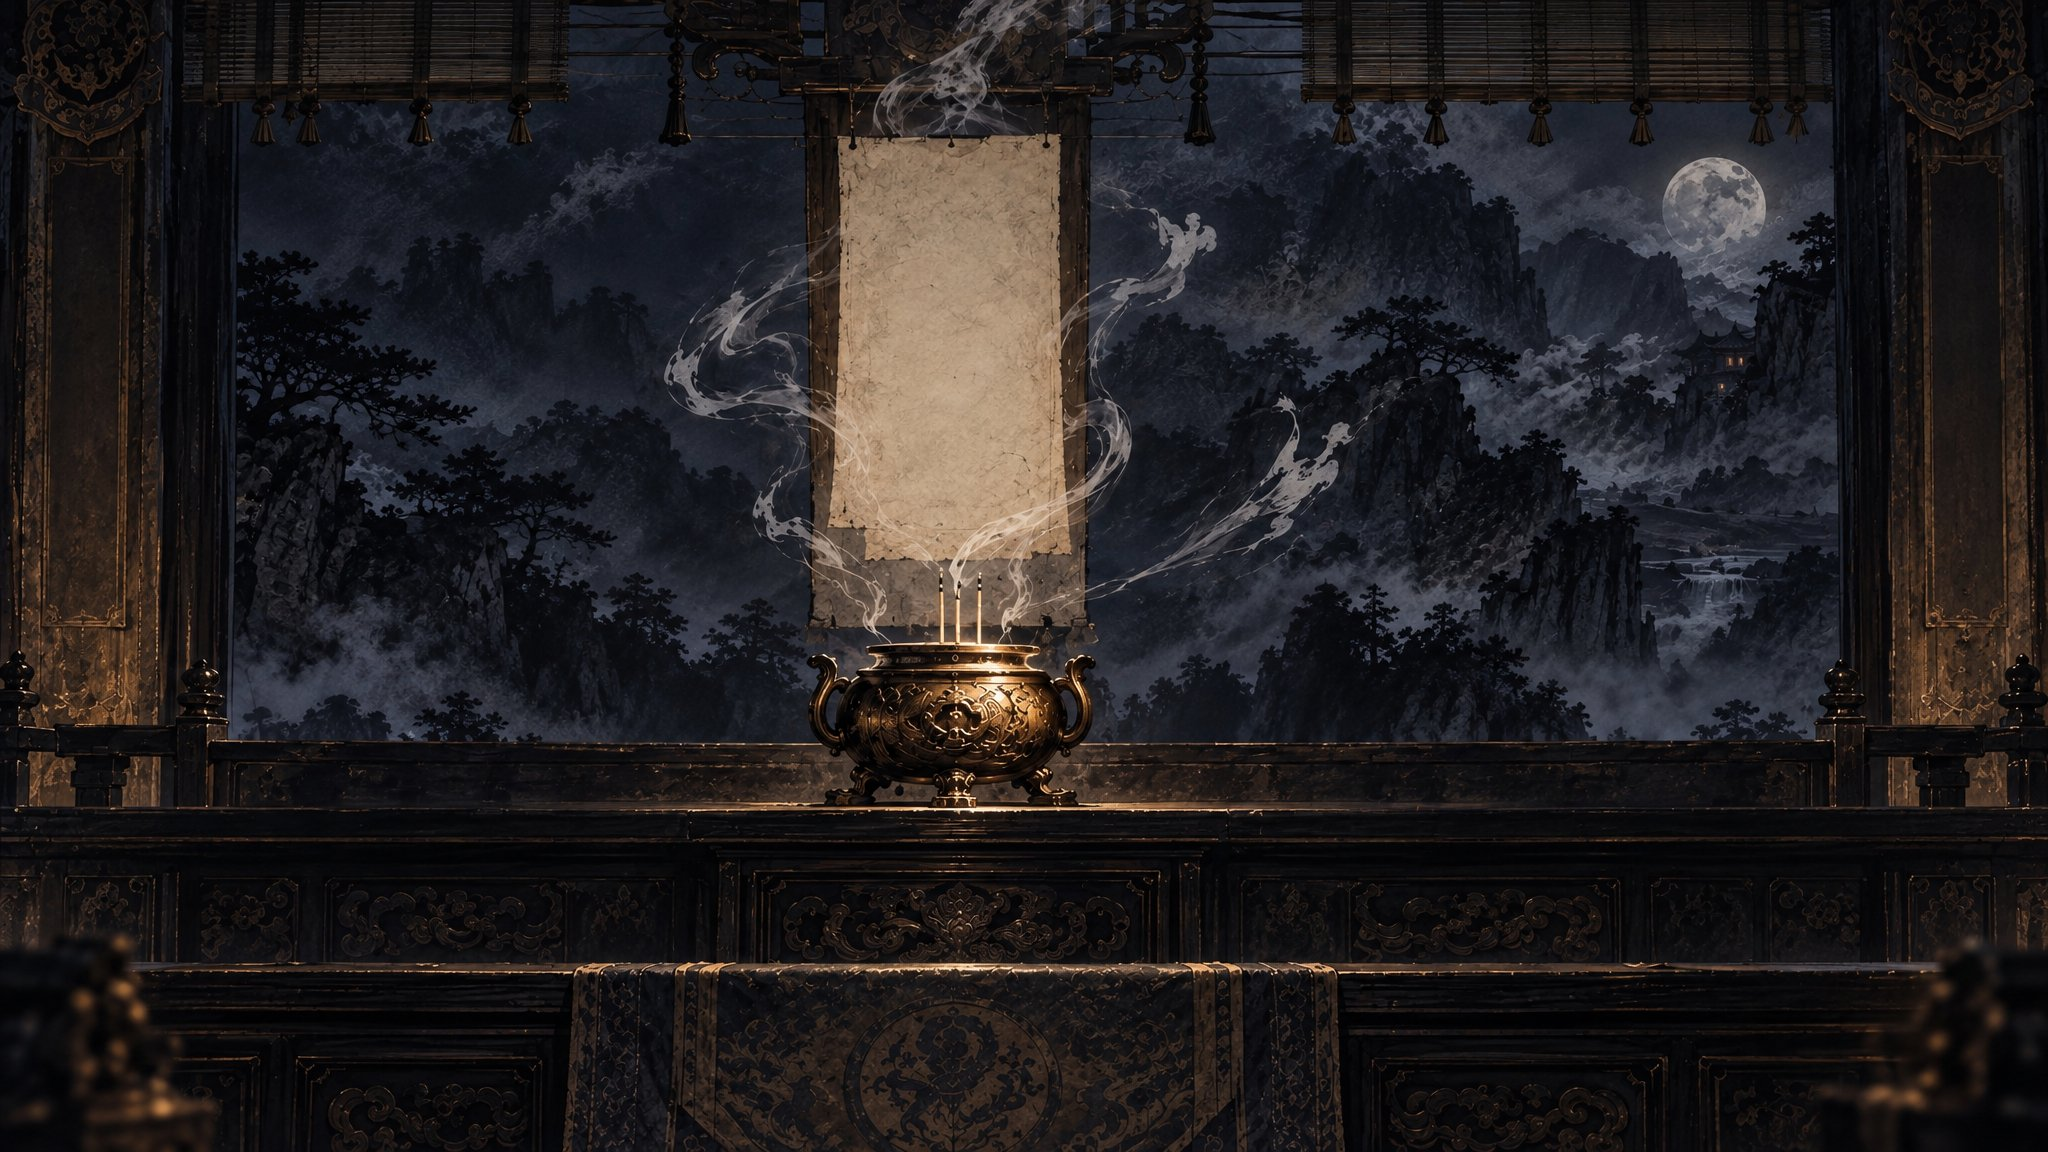
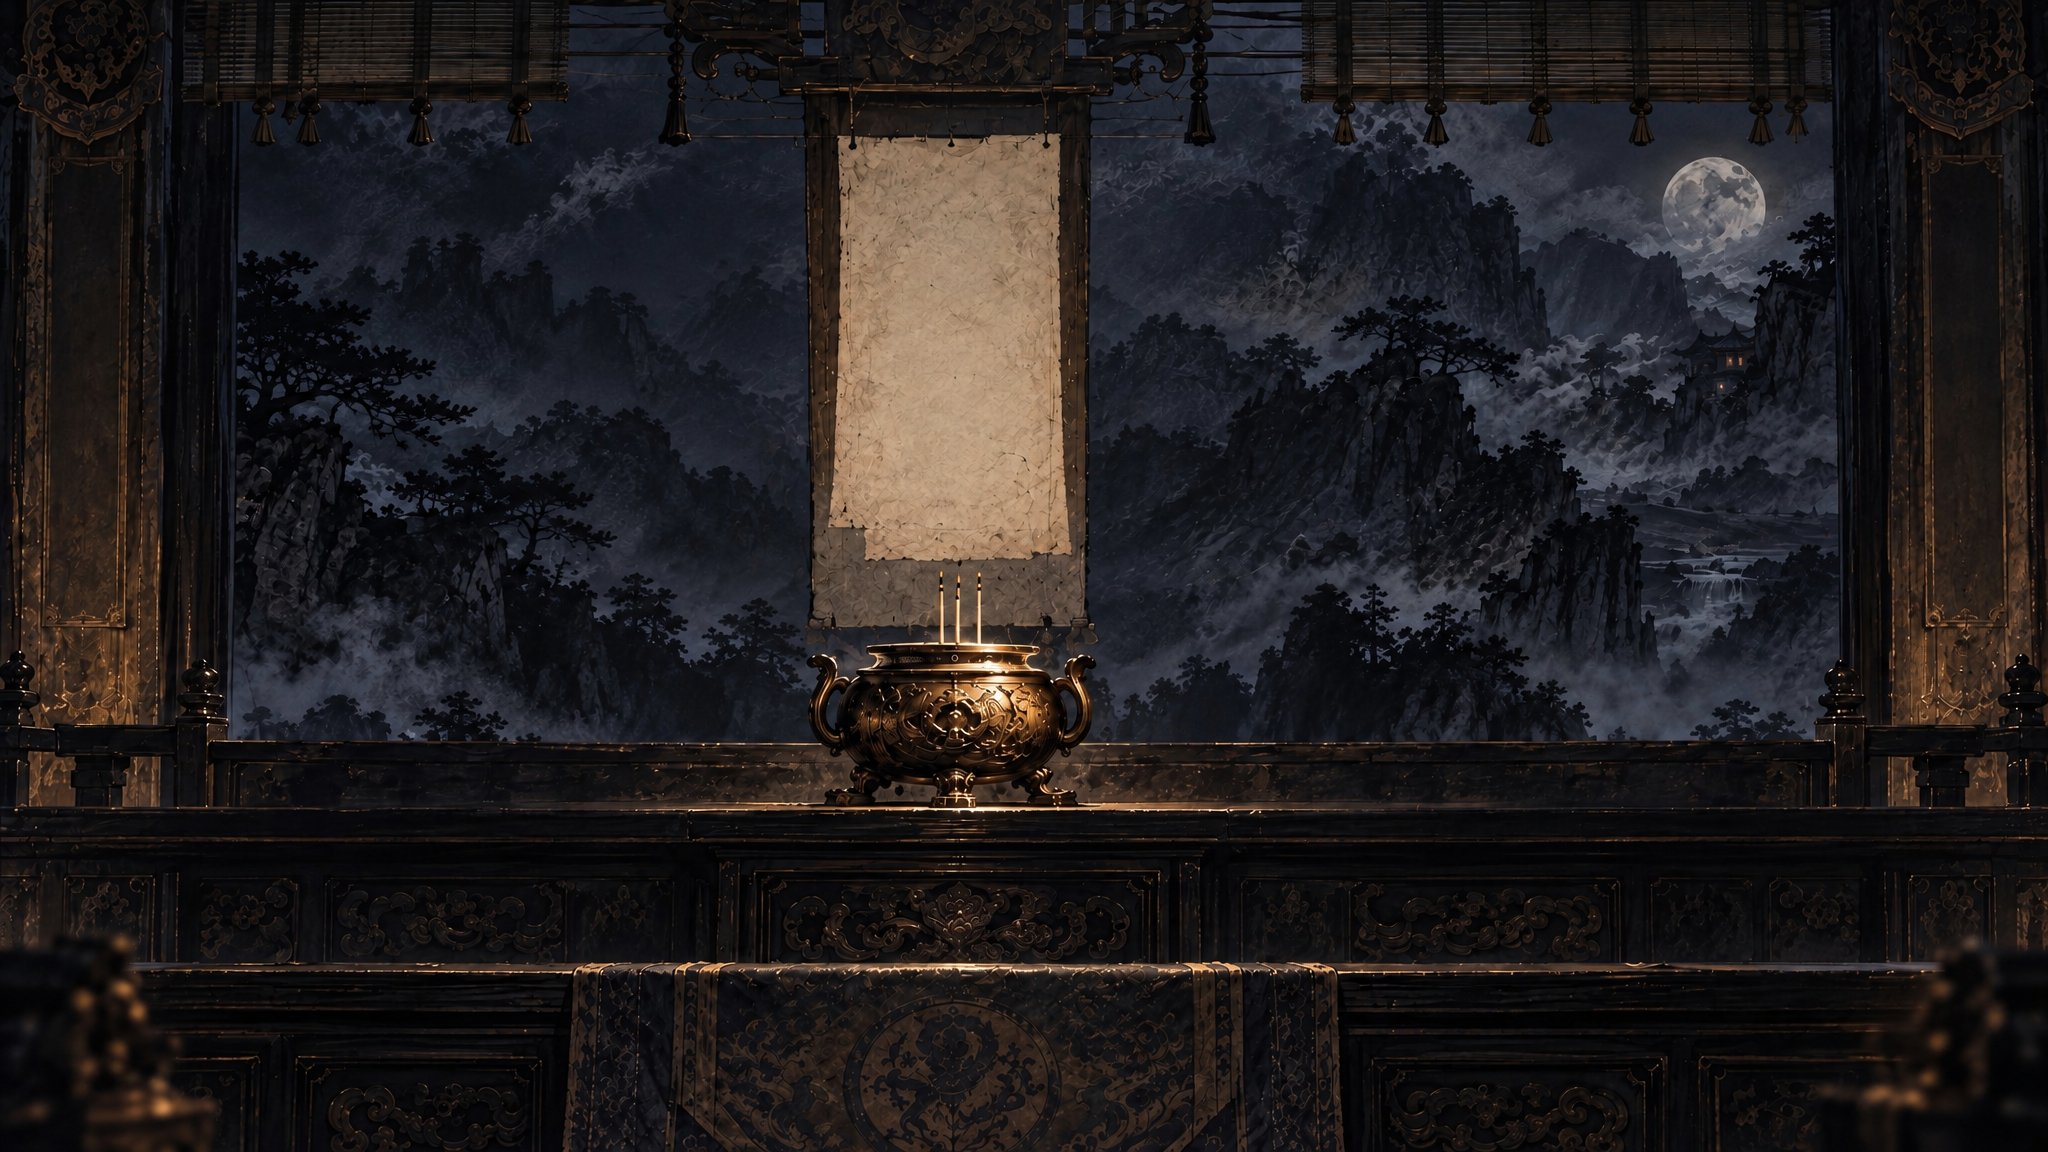
docs(qianchen): 朱印按钮、现值签条、香烟飘散与图案居中

diff --git a/docs/design/qianchen-redesign-prototype.html b/docs/design/qianchen-redesign-prototype.html
@@ -96,17 +96,20 @@ button { font: inherit; color: inherit; }
 .tag .ic { width: 70%; aspect-ratio: 1; object-fit: contain; margin: 2px 0 2px; opacity: .88; }
 .tag .lv { font-family: var(--font-display); font-weight: 700; font-size: 24px; line-height: 1.1; margin-top: 2px; }
 .tag .lv small { font-size: 12px; margin-left: 1px; font-weight: 500; }
-.tag .cur { font-size: 12.5px; margin-top: 4px; white-space: nowrap; }
+.tag .cur { margin-top: 5px; white-space: nowrap; font-size: 12.5px; font-weight: 600; padding: 0 10px; height: 26px; line-height: 26px; min-width: 88%; text-align: center;
+  background: url('../../code/public/art/qianchen/band.png') center / 100% 100% no-repeat; color: oklch(0.93 0.02 80); }
+.tag .cur i { font-style: normal; font-size: .82em; font-weight: 400; opacity: .75; margin-right: 2px; }
+body.cur-chip .tag .cur { background-image: url('../../code/public/art/qianchen/chip.png'); color: var(--paper-ink); padding: 0 13px; }
 .tag .nm.long { font-size: 16px; }
 .tag .nx { font-size: 12px; color: var(--paper-mute); line-height: 1.35; text-align: center; margin-top: 2px; }
 .tag .nx b { display: block; color: oklch(0.5 0.13 50); font-weight: 600; font-size: 13px; }
-.seal-btn { margin-top: 8px; border: 0; cursor: pointer; padding: 5px 0 4px; width: 66%; min-width: 50px; border-radius: 3px; line-height: 1.15;
-  background: var(--seal-red); color: oklch(0.95 0.02 85); font-family: var(--font-display); font-size: 13px; font-weight: 700; letter-spacing: .04em;
-  box-shadow: inset 0 0 0 1.5px oklch(0.95 0.02 85 / .35), 0 1px 0 oklch(0.3 0.05 30); transition: transform .15s, filter .2s; }
+.seal-btn { margin-top: 8px; border: 0; cursor: pointer; padding: 0; width: 64px; height: 48px; line-height: 1.12;
+  background: url('../../code/public/art/qianchen/seal.png') center / 100% 100% no-repeat; color: oklch(0.93 0.025 80); font-family: var(--font-display); font-size: 13px; font-weight: 700; letter-spacing: .04em;
+  text-shadow: 0 0 2px oklch(0.35 0.08 28 / .6); transition: transform .15s, filter .2s, opacity .2s; }
 .seal-btn small { display: block; font-size: 10.5px; font-weight: 500; letter-spacing: .2em; }
-.seal-btn:hover:not(:disabled) { filter: brightness(1.15); transform: rotate(-2deg) scale(1.04); }
+.seal-btn:hover:not(:disabled) { filter: brightness(1.1) saturate(1.1); transform: rotate(-2deg) scale(1.04); }
 .seal-btn:active:not(:disabled) { transform: scale(.94); }
-.seal-btn:disabled { background: oklch(0.55 0.02 60 / .55); color: oklch(0.88 0.01 60); cursor: default; box-shadow: inset 0 0 0 1px oklch(0.95 0.02 85 / .25); }
+.seal-btn:disabled { cursor: default; filter: grayscale(1) contrast(.8) brightness(1.25); opacity: .55; color: oklch(0.96 0.005 80); }
 .seal-btn:focus-visible { outline: 1.5px solid var(--gold); outline-offset: 2px; }
 
 /* 修行感悟：悬幅上墨书；香炉烟随级数变浓 */
@@ -117,10 +120,16 @@ button { font: inherit; color: inherit; }
 .banner .lv small { font-size: 13px; }
 .banner .e { font-size: 13px; margin-top: 4px; line-height: 1.5; }
 .banner .e b { font-weight: 600; } .banner .e .n { color: var(--paper-mute); } .banner .e .n b { color: oklch(0.5 0.13 50); }
-.smoke { position: absolute; left: calc(var(--aw) * .465); top: calc(var(--ah) * .3); width: calc(var(--aw) * .1); height: calc(var(--ah) * .3); transform: translateX(-50%); pointer-events: none; opacity: var(--sm); mix-blend-mode: screen; }
-.smoke i { position: absolute; bottom: 0; left: 50%; width: 40%; height: 100%; border-radius: 50%; filter: blur(10px);
-  background: linear-gradient(to top, oklch(0.85 0.01 262 / .5), transparent); animation: rise 6s ease-in-out infinite; animation-delay: var(--d); }
-@keyframes rise { 0% { transform: translate(-50%, 20%) scaleX(.4); opacity: 0; } 30% { opacity: 1; } 100% { transform: translate(calc(-50% + var(--x)), -30%) scaleX(1.2); opacity: 0; } }
+.smoke { position: absolute; left: calc(var(--aw) * .465); top: calc(var(--ah) * .555); width: 0; height: 0; pointer-events: none; z-index: 1; }
+/* 一缕：从香头升起，边升边向一侧飘散、放大、淡去；几缕错开循环 */
+.smoke img { position: absolute; left: 0; bottom: 0; width: calc(var(--aw) * .085); transform-origin: 50% 100%; opacity: 0;
+  margin-left: calc(var(--aw) * -.0425 + var(--x0)); animation: drift var(--t) linear infinite; animation-delay: var(--d); }
+@keyframes drift {
+  0%   { transform: translate(0, 0) scale(.55, .45) rotate(0); opacity: 0; filter: blur(0); }
+  15%  { opacity: var(--o); }
+  55%  { transform: translate(calc(var(--dx) * .35), calc(var(--aw) * -.05)) scale(.95, 1) rotate(calc(var(--r) * .35)); opacity: calc(var(--o) * .8); }
+  100% { transform: translate(var(--dx), calc(var(--aw) * var(--dy))) scale(1.9, 1.5) rotate(var(--r)); opacity: 0; filter: blur(3px); }
+}
 
 /* ═══ 机缘：签架上两排竹签 ═══ */
 .beam { position: absolute; left: calc(var(--aw) * .085); right: calc(var(--aw) * .085); height: 10px; border-radius: 3px;
@@ -222,7 +231,7 @@ body.ledger.sub-diyun .art { opacity: 0; }
   </div>
 
   <div class="layer" id="L-diyun">
-    <div class="smoke" id="smoke"><i style="--d:0s;--x:-12px"></i><i style="--d:-2s;--x:14px"></i><i style="--d:-4s;--x:-4px"></i></div>
+    <div class="smoke" id="smoke"></div>
     <div class="banner" id="banner"></div>
     <div id="lamps"></div>
   </div>
@@ -301,7 +310,7 @@ function drawDiyun() {
       + `<div class="nm${name.length > 2 ? ' long' : ''}" data-tip="散功重修，根骨不失，随神魂带到来世">${name}</div>`
       + `<img class="ic" src="${A}qianchen/ic-${id}.png" alt="">`
       + `<div class="lv">${n}<small>级</small></div>`
-      + `<div class="cur">现 +${fmtV(cum(f, n), k)}</div>`
+      + `<div class="cur"><i>现</i>+${fmtV(cum(f, n), k)}</div>`
       + `<div class="nx">下一级<b>+${fmtV(gainAt(f, n + 1), k)}</b></div>`
       + `<button class="seal-btn" data-i="${i}" ${can ? '' : 'disabled'} ${can ? '' : `data-tip="还差 ${p - st.rep} 声望"`}>${p}<small>声望</small></button></div>`;
   }).join('');
@@ -309,7 +318,12 @@ function drawDiyun() {
   $('banner').innerHTML = `<div class="t" data-tip="侠名在外，江湖自有人奉上资粮">修行感悟</div><div class="lv">${st.gw}<small>级</small></div>`
     + `<div class="e">挂机产出 <b>+${(st.gw * 0.2).toFixed(1)}×</b><br><span class="n">下一级 <b>+0.2×</b></span></div>`
     + `<button class="seal-btn" id="gwBtn" style="width:62%" ${gcan ? '' : `disabled data-tip="还差 ${gp - st.rep} 声望"`}>${gp}<small>声望</small></button>`;
-  $('smoke').style.setProperty('--sm', Math.min(1, 0.25 + st.gw * 0.04));
+  // 香烟：缕数与浓度随修行感悟级数；三支香头各起一缕，往上升起后向两侧飘散
+  const nW = st.gw === 0 ? 2 : Math.min(9, 3 + Math.round(st.gw / 3)), op = Math.min(1, .7 + st.gw * .02);
+  $('smoke').innerHTML = Array.from({ length: nW }, (_, i) => {
+    const side = i % 2 ? 1 : -1, x0 = [-8, 0, 8][i % 3], spread = 90 + ((i * 41) % 110);
+    return `<img src="${A}qianchen/smoke-${i % 2 ? 'b' : 'a'}.png" alt="" style="--x0:${x0}px;--t:${8 + (i % 3) * 1.5}s;--d:${-(i * 9 / nW).toFixed(2)}s;--dx:${side * spread}px;--dy:${-(0.16 + (i % 3) * 0.04).toFixed(2)};--r:${side * (14 + (i * 7) % 18)}deg;--o:${op.toFixed(2)}">`;
+  }).join('');
   document.querySelectorAll('#lamps .seal-btn').forEach(b => b.onclick = () => {
     const i = +b.dataset.i, p = price(st.lv[i] + 1); if (st.rep < p) return;
     st.rep -= p; st.lv[i]++; drawAll();
@@ -390,6 +404,9 @@ function bindTips() { document.querySelectorAll('[data-tip]').forEach(el => { el
 function load(k) { st = JSON.parse(JSON.stringify(PRESETS[k])); drawAll(); document.querySelectorAll('.proto button').forEach(b => b.classList.toggle('on', b.dataset.k === k)); }
 Object.entries(PRESETS).forEach(([k, p]) => { const b = document.createElement('button'); b.textContent = p.label; b.dataset.k = k; b.onclick = () => load(k); $('proto').appendChild(b); });
 $('proto').appendChild(Object.assign(document.createElement('span'), { textContent: '｜对比' }));
+const cb = document.createElement('button'); cb.textContent = '现值签：墨痕';
+cb.onclick = () => { const on = document.body.classList.toggle('cur-chip'); cb.textContent = on ? '现值签：纸签' : '现值签：墨痕'; cb.classList.toggle('on', on); };
+$('proto').appendChild(cb);
 const cmp = document.createElement('button'); cmp.textContent = '底蕴：灵台魂灯';
 cmp.onclick = () => { const on = document.body.classList.toggle('ledger'); cmp.textContent = on ? '底蕴：前尘账册' : '底蕴：灵台魂灯'; cmp.classList.toggle('on', on); sub = 'diyun'; drawHead(); };
 $('proto').appendChild(cmp);

diff --git a/changelog.d/feature-qianchen-redesign.md b/changelog.d/feature-qianchen-redesign.md
@@ -1,4 +1,4 @@
 ### 新增
 
 - **前尘页改版原型**：`docs/design/qianchen-redesign-prototype.html`，底蕴为灵台上八盏魂灯与纸吊牌、修行感悟写在悬幅上，机缘为两排竹签，侠名录徽记嵌入龛格；附方向挑选页 `docs/design/concepts/qianchen-pick.html`。
-- **前尘页新素材**：`art/qianchen/` 下灵台底图、铜灯、灯焰、纸牌、竹签与八枚水墨属性图案。
+- **前尘页新素材**：`art/qianchen/` 下灵台底图、铜灯、灯焰、纸牌、竹签与八枚水墨属性图案、斑驳朱印、墨痕签与纸签、两缕透明水墨香烟；灵台底图去掉画死的香烟。
